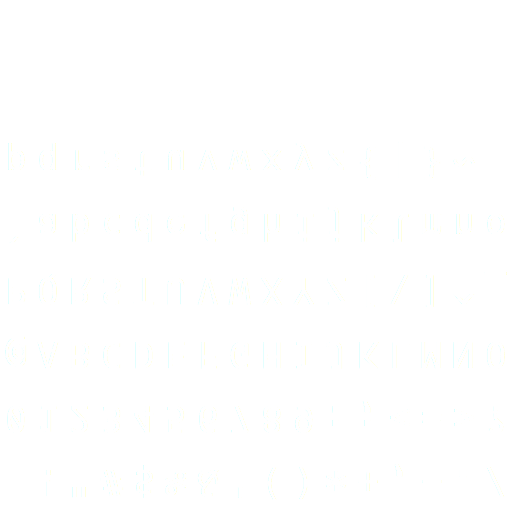
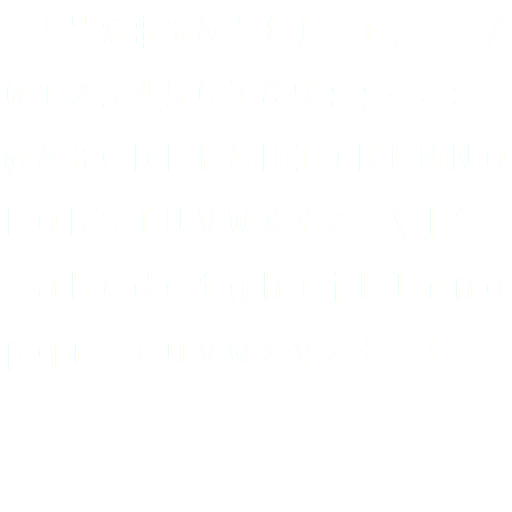
added flip_image_vertical so textures aren't upside down

diff --git a/util.c b/util.c
@@ -114,15 +114,28 @@ GLuint load_program(const char *path1, const char *path2) {
     return program;
 }
 
+void flip_image_vertical(
+    unsigned char *data, unsigned int width, unsigned int height)
+{
+    unsigned char new_data[width * height * 4];
+    unsigned int stride = width * 4;
+    for (unsigned int i = 0; i < height; i++) {
+        unsigned int j = height - i - 1;
+        memcpy(new_data + j * stride, data + i * stride, stride);
+    }
+    memcpy(data, new_data, sizeof(new_data));
+}
+
 void load_png_texture(const char *file_name) {
-    unsigned error;
-    unsigned char *image;
-    unsigned width, height;
-    error = lodepng_decode32_file(&image, &width, &height, file_name);
+    unsigned int error;
+    unsigned char *data;
+    unsigned int width, height;
+    error = lodepng_decode32_file(&data, &width, &height, file_name);
     if (error) {
         fprintf(stderr, "error %u: %s\n", error, lodepng_error_text(error));
     }
+    flip_image_vertical(data, width, height);
     glTexImage2D(GL_TEXTURE_2D, 0, GL_RGBA, width, height, 0, GL_RGBA,
-        GL_UNSIGNED_BYTE, image);
-    free(image);
+        GL_UNSIGNED_BYTE, data);
+    free(data);
 }

diff --git a/cube.c b/cube.c
@@ -396,9 +396,9 @@ int _make_sphere(
         normalize(ac + 0, ac + 1, ac + 2);
         normalize(bc + 0, bc + 1, bc + 2);
         float tab[2], tac[2], tbc[2];
-        tab[0] = 0; tab[1] = acosf(ab[1]) / PI;
-        tac[0] = 0; tac[1] = acosf(ac[1]) / PI;
-        tbc[0] = 0; tbc[1] = acosf(bc[1]) / PI;
+        tab[0] = 0; tab[1] = 1 - acosf(ab[1]) / PI;
+        tac[0] = 0; tac[1] = 1 - acosf(ac[1]) / PI;
+        tbc[0] = 0; tbc[1] = 1 - acosf(bc[1]) / PI;
         int total = 0;
         int n;
         n = _make_sphere(data, r, detail - 1, a, ab, ac, ta, tab, tac);
@@ -436,8 +436,8 @@ void make_sphere(float *data, float r, int detail) {
     };
     static float uvs[6][3] = {
         {0, 0.5}, {0, 0.5},
-        {0, 1}, {0, 0.5},
-        {0, 0}, {0, 0.5}
+        {0, 0}, {0, 0.5},
+        {0, 1}, {0, 0.5}
     };
     int total = 0;
     for (int i = 0; i < 8; i++) {
